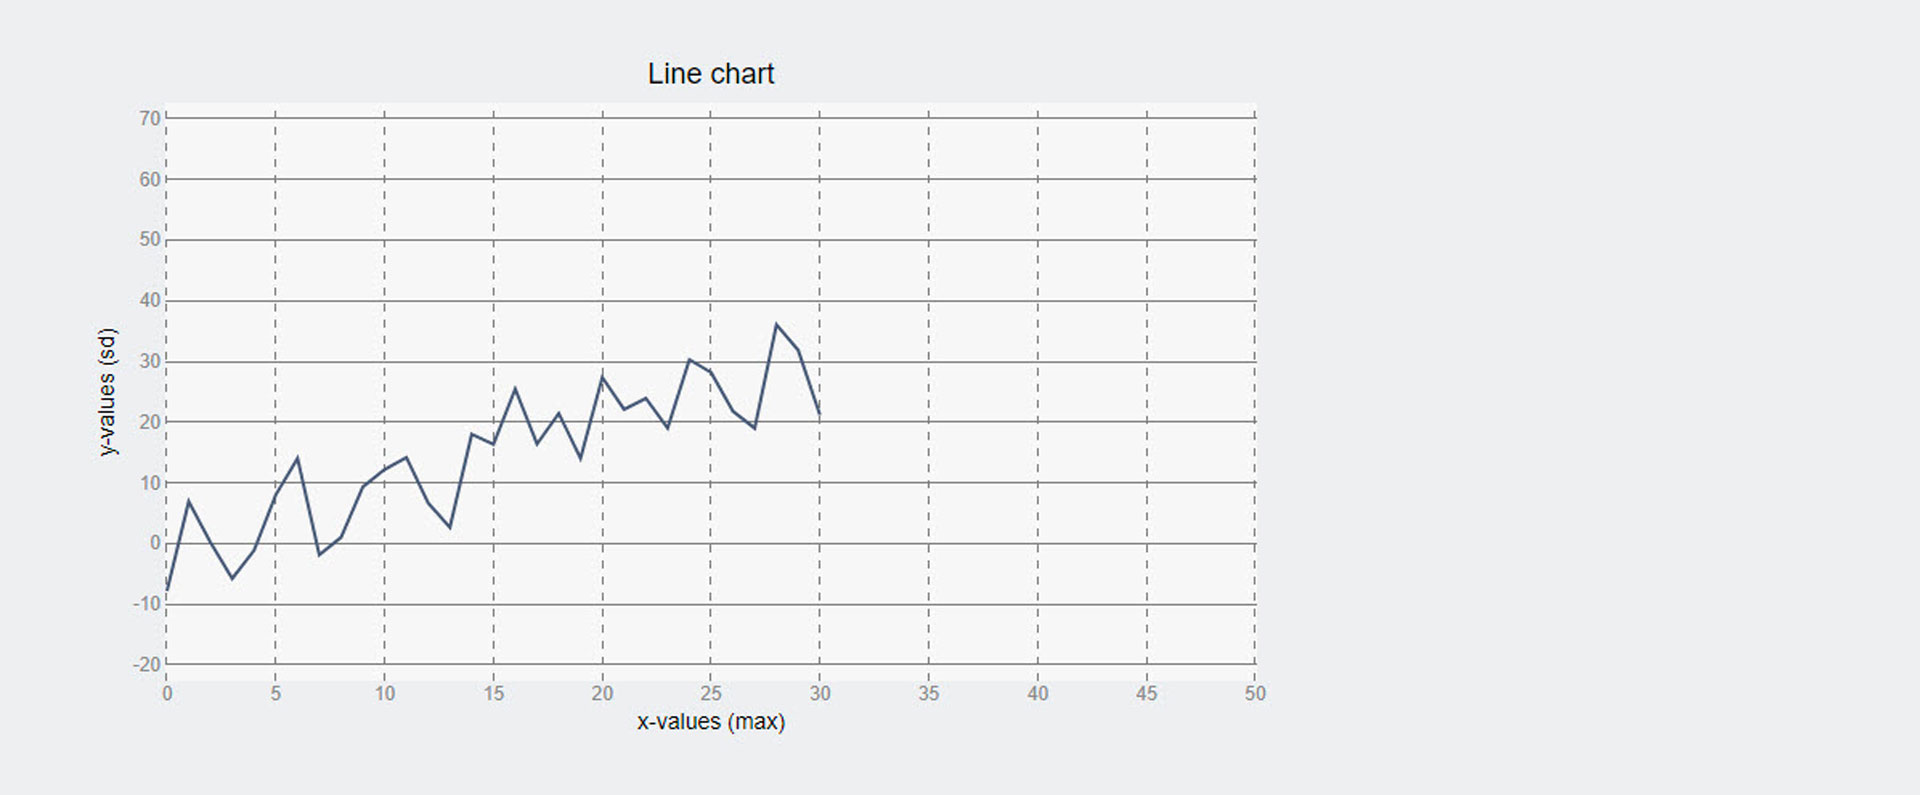
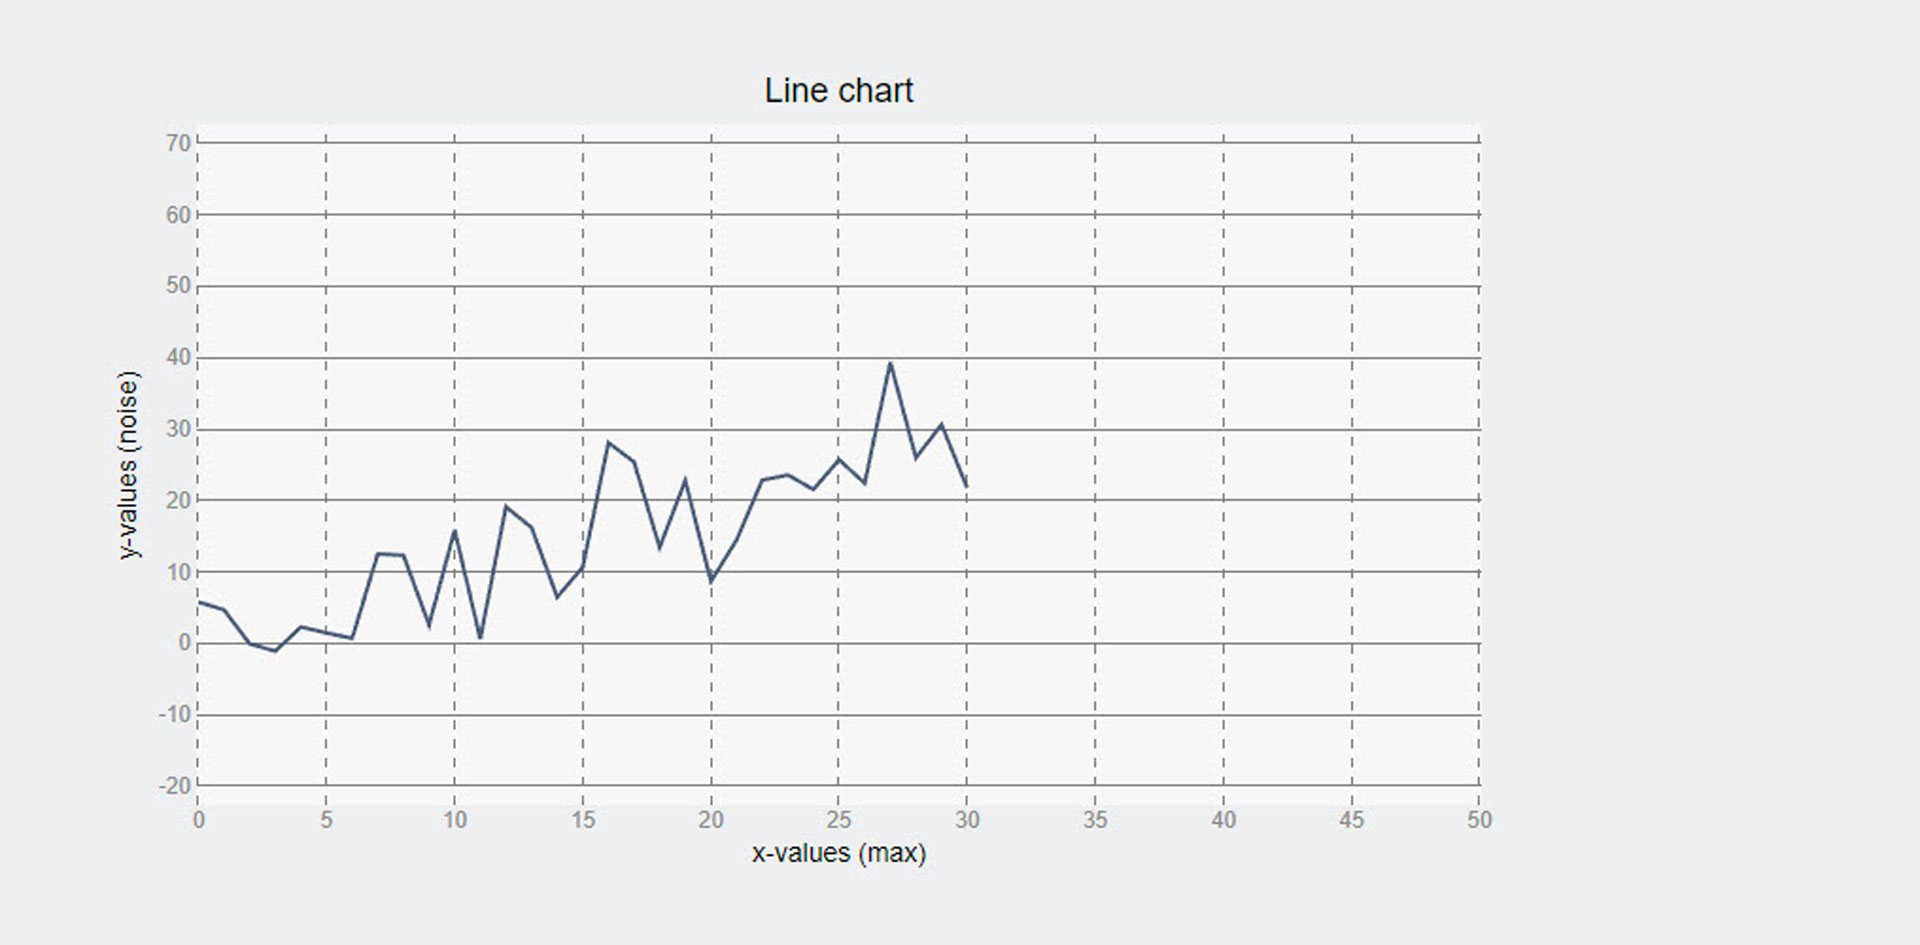
New version 2022.4.5

diff --git a/pages/public/jupyter/notebooks/textbooks/j1_nbi_widgets_line_chart.html b/pages/public/jupyter/notebooks/textbooks/j1_nbi_widgets_line_chart.html
@@ -37,14 +37,14 @@
 <div class=" highlight hl-ipython3"><pre><span></span><span class="k">def</span> <span class="nf">x_fn</span><span class="p">(</span><span class="nb">max</span><span class="p">):</span>
     <span class="k">return</span> <span class="n">np</span><span class="o">.</span><span class="n">arange</span><span class="p">(</span><span class="mi">0</span><span class="p">,</span> <span class="nb">max</span> <span class="o">+</span> <span class="mi">1</span><span class="p">)</span>
 
-<span class="k">def</span> <span class="nf">y_fn</span><span class="p">(</span><span class="n">xs</span><span class="p">,</span> <span class="n">sd</span><span class="p">):</span>
-    <span class="k">return</span> <span class="n">xs</span> <span class="o">+</span> <span class="n">np</span><span class="o">.</span><span class="n">random</span><span class="o">.</span><span class="n">normal</span><span class="p">(</span><span class="mi">0</span><span class="p">,</span> <span class="n">scale</span><span class="o">=</span><span class="n">sd</span><span class="p">,</span> <span class="n">size</span><span class="o">=</span><span class="nb">len</span><span class="p">(</span><span class="n">xs</span><span class="p">))</span>
+<span class="k">def</span> <span class="nf">y_fn</span><span class="p">(</span><span class="n">xs</span><span class="p">,</span> <span class="n">noise</span><span class="p">):</span>
+    <span class="k">return</span> <span class="n">xs</span> <span class="o">+</span> <span class="n">np</span><span class="o">.</span><span class="n">random</span><span class="o">.</span><span class="n">normal</span><span class="p">(</span><span class="mi">0</span><span class="p">,</span> <span class="n">scale</span><span class="o">=</span><span class="n">noise</span><span class="p">,</span> <span class="n">size</span><span class="o">=</span><span class="nb">len</span><span class="p">(</span><span class="n">xs</span><span class="p">))</span>
 
 
 <span class="n">options</span> <span class="o">=</span> <span class="p">{</span>
     <span class="s1">&#39;title&#39;</span><span class="p">:</span> <span class="s1">&#39;Line chart&#39;</span><span class="p">,</span>
     <span class="s1">&#39;xlabel&#39;</span><span class="p">:</span> <span class="s1">&#39;x-values (max)&#39;</span><span class="p">,</span>
-    <span class="s1">&#39;ylabel&#39;</span><span class="p">:</span> <span class="s1">&#39;y-values (sd)&#39;</span><span class="p">,</span>    
+    <span class="s1">&#39;ylabel&#39;</span><span class="p">:</span> <span class="s1">&#39;y-values (noise)&#39;</span><span class="p">,</span>    
     <span class="s1">&#39;xlim&#39;</span><span class="p">:</span> <span class="p">(</span><span class="mi">0</span><span class="p">,</span> <span class="mi">50</span><span class="p">),</span>
     <span class="s1">&#39;ylim&#39;</span><span class="p">:</span> <span class="p">(</span><span class="o">-</span><span class="mi">20</span><span class="p">,</span> <span class="mi">70</span><span class="p">),</span>
     <span class="s1">&#39;animation_duration&#39;</span><span class="p">:</span> <span class="mi">500</span>
@@ -59,7 +59,7 @@
     <span class="n">x_fn</span><span class="p">,</span>
     <span class="n">y_fn</span><span class="p">,</span>
     <span class="nb">max</span><span class="o">=</span><span class="p">(</span><span class="mi">10</span><span class="p">,</span> <span class="mi">50</span><span class="p">),</span>
-    <span class="n">sd</span><span class="o">=</span><span class="p">(</span><span class="mi">0</span><span class="p">,</span> <span class="mi">10</span><span class="p">),</span>
+    <span class="n">noise</span><span class="o">=</span><span class="p">(</span><span class="mi">0</span><span class="p">,</span> <span class="mi">10</span><span class="p">),</span>
     <span class="n">options</span><span class="o">=</span><span class="n">options</span><span class="p">,</span>
     <span class="n">layouts</span><span class="o">=</span><span class="n">layouts</span>
 <span class="p">)</span>

diff --git a/pages/public/jupyter/notebooks/textbooks/j1_nbi_widgets_scatter_drag_chart.html b/pages/public/jupyter/notebooks/textbooks/j1_nbi_widgets_scatter_drag_chart.html
@@ -39,7 +39,7 @@
 
 
 <span class="n">options</span> <span class="o">=</span> <span class="p">{</span>
-    <span class="s1">&#39;title&#39;</span><span class="p">:</span> <span class="s1">&#39;Interactive Scatter Plot&#39;</span><span class="p">,</span>
+    <span class="s1">&#39;title&#39;</span><span class="p">:</span> <span class="s1">&#39;Interactive Scatter chart&#39;</span><span class="p">,</span>
     <span class="s1">&#39;animation_duration&#39;</span><span class="p">:</span> <span class="mi">1000</span><span class="p">,</span>
     <span class="s1">&#39;xlabel&#39;</span><span class="p">:</span> <span class="s1">&#39;x-values&#39;</span><span class="p">,</span>
     <span class="s1">&#39;ylabel&#39;</span><span class="p">:</span> <span class="s1">&#39;y-values&#39;</span><span class="p">,</span>

diff --git a/pages/public/jupyter/notebooks/textbooks/j1_nbi_widgets_bar_chart.html b/pages/public/jupyter/notebooks/textbooks/j1_nbi_widgets_bar_chart.html
@@ -41,7 +41,7 @@
 
 
 <span class="n">options</span> <span class="o">=</span> <span class="p">{</span>
-    <span class="s1">&#39;title&#39;</span><span class="p">:</span> <span class="s1">&#39;Barchart&#39;</span><span class="p">,</span>
+    <span class="s1">&#39;title&#39;</span><span class="p">:</span> <span class="s1">&#39;Bar chart&#39;</span><span class="p">,</span>
     <span class="s1">&#39;xlabel&#39;</span><span class="p">:</span> <span class="s1">&#39;Number of bars (n)&#39;</span><span class="p">,</span>
     <span class="s1">&#39;ylabel&#39;</span><span class="p">:</span> <span class="s1">&#39;Offset  value&#39;</span><span class="p">,</span>
     <span class="s1">&#39;animation_duration&#39;</span><span class="p">:</span> <span class="mi">500</span><span class="p">,</span>

diff --git a/pages/public/jupyter/notebooks/textbooks/j1_nbi_widgets_scatter_chart.html b/pages/public/jupyter/notebooks/textbooks/j1_nbi_widgets_scatter_chart.html
@@ -41,7 +41,7 @@
 
 
 <span class="n">options</span> <span class="o">=</span> <span class="p">{</span>
-    <span class="s1">&#39;title&#39;</span><span class="p">:</span> <span class="s1">&#39;Scatter Plot&#39;</span><span class="p">,</span>
+    <span class="s1">&#39;title&#39;</span><span class="p">:</span> <span class="s1">&#39;Scatter chart&#39;</span><span class="p">,</span>
     <span class="s1">&#39;marker&#39;</span><span class="p">:</span> <span class="s1">&#39;circle&#39;</span><span class="p">,</span>
     <span class="s1">&#39;animation_duration&#39;</span><span class="p">:</span> <span class="mi">1000</span><span class="p">,</span>    
     <span class="s1">&#39;xlabel&#39;</span><span class="p">:</span> <span class="s1">&#39;x-values&#39;</span><span class="p">,</span>

diff --git a/_plugins/lunr_index.rb b/_plugins/lunr_index.rb
@@ -369,6 +369,6 @@ end
 
 module Jekyll
   module J1LunrSearch
-    VERSION = '2022.4.4'
+    VERSION = '2022.4.5'
   end
 end
